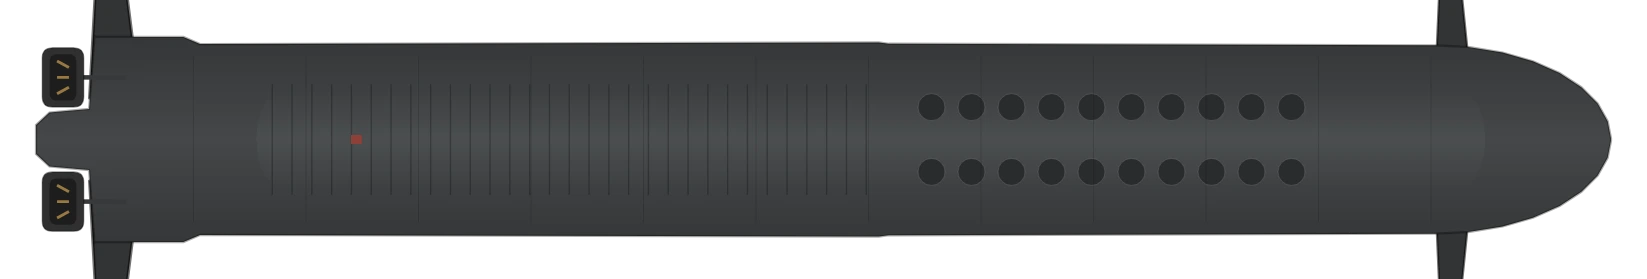
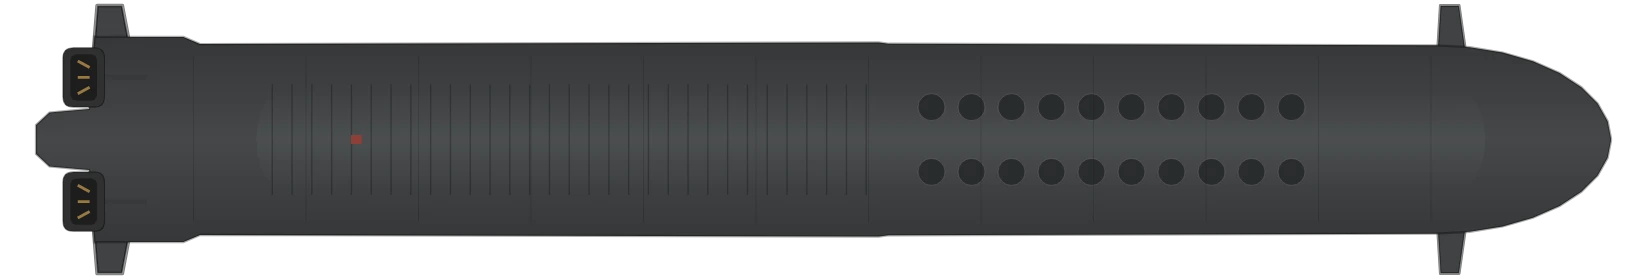
Typhoon: her screw ducts joined to the end of the hull; submarines' diving planes in the hull's tone with a light rim, and kept inside the 4 m margin the bake leaves (a beamy boat's fin tips were cut off at the sprite's edge)
Claude-Session: https://claude.ai/code/session_0112riLGm4nSjrgsGiYL5DUG

diff --git a/index.html b/index.html
@@ -506,7 +506,7 @@ const DESIGN_LIST = [
     p: { sail: [[14, 30, 5]], casing: .5, smooth: true, tubes: [[46, -20, 12, 6.3]], pod: 1 },
     slots: [sl('T', 64, -2, BOW, 'torh'), sl('T', 64, 2, BOW, 'torh'), sl('V', 40, 0, ALL, 'ssm'), sl('V', 10, 0, ALL, 'ssm'), sl('V', -16, 0, ALL, 'ssm')] },
   { id: 'ssn_typhoon', cls: 'ssn', name: 'Heavy Missile Submarine', tech: 'reactors', yard: 'neva', dn: 'Polyarnik', model: 'Typhoon-class submarine', year: 1981, era: 3, L: 175, B: 23, t: 23200, kn: 12, subKn: 27, td: 800, armor: 0, crew: 160, price: 330000,
-    p: { outline: [[87.5, 0.15], [87.13, 2.04], [86.02, 4.0], [84.21, 5.81], [81.79, 7.4], [78.83, 8.7], [75.46, 9.66], [71.8, 10.26], [68.0, 10.46], [7.26, 10.64], [6.15, 10.79], [-69.27, 10.61], [-71.12, 11.39], [-80.56, 11.39], [-81.0, 11.44], [-81.6, 3.4], [-86.0, 3.0], [-87.5, 1.6]], sail: [[-8, 29, 7]], casing: .55, smooth: true, tubes: [[52, 12, 10, 3.6]], screws: [[-84.5, -6.9, 3.3], [-84.5, 6.9, 3.3]] },
+    p: { outline: [[87.5, 0.15], [87.13, 2.04], [86.02, 4.0], [84.21, 5.81], [81.79, 7.4], [78.83, 8.7], [75.46, 9.66], [71.8, 10.26], [68.0, 10.46], [7.26, 10.64], [6.15, 10.79], [-69.27, 10.61], [-71.12, 11.39], [-80.56, 11.39], [-81.0, 11.44], [-81.6, 3.4], [-86.0, 3.0], [-87.5, 1.6]], sail: [[-8, 29, 7]], casing: .55, smooth: true, tubes: [[52, 12, 10, 3.6]], screws: [[-82.2, -6.9, 3.3], [-82.2, 6.9, 3.3]] },
     slots: [sl('T', 72, -2.5, BOW, 'torh'), sl('T', 72, 2.5, BOW, 'torh'), sl('T', 72, 0, BOW, 'torh'), sl('V', 50, 0, ALL, 'ssmh'), sl('V', 38, 0, ALL, 'ssmh'), sl('V', 26, 0, ALL, 'ssmh'), sl('V', 14, 0, ALL, 'ssmh')] },
   // ---------------------------------------------------------------- fleet carriers (Era II)
   { id: 'cv_shokaku', cls: 'cv', yard: 'seto', dn: 'Tsurugi', model: 'Shokaku-class carrier', year: 1941, era: 1, L: 257.5, B: 26, t: 25675, kn: 34, td: 1000, armor: 46, crew: 1660, hangar: 4, price: 150000,
@@ -1115,12 +1115,13 @@ function drawPlan(g, d, P, part = 'all') {
   if (d.kind === 'sub') {
     // diving planes: tapered fins, swept back, rooted under the hull so only the part outboard of it shows (the owner,
     // 13 Nov 2026: they were flat bars laid across the hull)
-    g.fillStyle = shade(P.hull, -0.55);
+    g.fillStyle = shade(P.hull, -0.42);   // the hull's own tone, so the fin reads against the sea
     for (const [sx, k] of p.pod ? [[-h * 0.9, 1.0]] : [[h * 0.8, 0.75], [-h * 0.9, 1.0]]) for (const sg of [-1, 1]) {
-      const c = Math.max(1.0, L * 0.032) * k, span = b * (0.35 + 0.4 * k), sw = c * 0.35;
+      const c = Math.max(1.0, L * 0.032) * k, span = Math.min(b * (0.35 + 0.4 * k), 3.4), sw = c * 0.35;   // (capped inside the 4 m margin the bake leaves round a hull: a beamy boat's fin tips were cut off at its edge)
       g.beginPath(); g.moveTo(sx + c / 2, sg * b * 0.4); g.lineTo(sx + c / 2 - sw, sg * (b + span)); g.lineTo(sx + c / 2 - sw - c * 0.5, sg * (b + span));
-      g.lineTo(sx - c / 2, sg * b * 0.4); g.closePath(); g.fill(); g.strokeStyle = 'rgba(0,0,0,.55)'; g.lineWidth = Math.max(0.18, c * 0.06); g.lineJoin = 'round'; g.stroke();
-      g.strokeStyle = 'rgba(200,206,206,.22)'; g.lineWidth = Math.max(0.1, c * 0.03); g.beginPath(); g.moveTo(sx + c / 2 - sw, sg * (b + span)); g.lineTo(sx + c / 2 - sw - c * 0.5, sg * (b + span)); g.stroke(); g.lineJoin = 'miter'; }   // (the owner, 14 Nov 2026: the tips read as if they had no edge)
+      g.lineTo(sx - c / 2, sg * b * 0.4); g.closePath(); g.fill(); g.lineJoin = 'round';
+      g.strokeStyle = 'rgba(0,0,0,.5)'; g.lineWidth = Math.max(0.22, c * 0.07); g.stroke();
+      g.strokeStyle = 'rgba(214,220,220,.34)'; g.lineWidth = Math.max(0.1, c * 0.03); g.stroke(); g.lineJoin = 'miter'; }   // a light rim all round (the owner, 14 Nov 2026: the tips read as if they had no edge)   // (the owner, 14 Nov 2026: the tips read as if they had no edge)
     hullPath(g, d); crownFill(g, shade(P.hull, -0.45), b); g.lineWidth = 0.25; g.strokeStyle = edge; g.stroke();
     if (!p.smooth || p.casing) { const cw = B * (p.casing || .4); rrect(g, -h * 0.72, -cw / 2, L * 0.78, cw, cw / 2); crownFill(g, shade(P.deck, -0.25), cw / 2);
       g.strokeStyle = 'rgba(0,0,0,.25)'; g.lineWidth = 0.15; g.beginPath(); for (let x = -h * 0.7; x < h * 0.06; x += 2.2) { g.moveTo(x, -cw / 2 + 0.2); g.lineTo(x, cw / 2 - 0.2); } g.stroke(); }

diff --git a/src/game.html b/src/game.html
@@ -503,7 +503,7 @@ const DESIGN_LIST = [
     p: { sail: [[14, 30, 5]], casing: .5, smooth: true, tubes: [[46, -20, 12, 6.3]], pod: 1 },
     slots: [sl('T', 64, -2, BOW, 'torh'), sl('T', 64, 2, BOW, 'torh'), sl('V', 40, 0, ALL, 'ssm'), sl('V', 10, 0, ALL, 'ssm'), sl('V', -16, 0, ALL, 'ssm')] },
   { id: 'ssn_typhoon', cls: 'ssn', name: 'Heavy Missile Submarine', tech: 'reactors', yard: 'neva', dn: 'Polyarnik', model: 'Typhoon-class submarine', year: 1981, era: 3, L: 175, B: 23, t: 23200, kn: 12, subKn: 27, td: 800, armor: 0, crew: 160, price: 330000,
-    p: { outline: [[87.5, 0.15], [87.13, 2.04], [86.02, 4.0], [84.21, 5.81], [81.79, 7.4], [78.83, 8.7], [75.46, 9.66], [71.8, 10.26], [68.0, 10.46], [7.26, 10.64], [6.15, 10.79], [-69.27, 10.61], [-71.12, 11.39], [-80.56, 11.39], [-81.0, 11.44], [-81.6, 3.4], [-86.0, 3.0], [-87.5, 1.6]], sail: [[-8, 29, 7]], casing: .55, smooth: true, tubes: [[52, 12, 10, 3.6]], screws: [[-84.5, -6.9, 3.3], [-84.5, 6.9, 3.3]] },
+    p: { outline: [[87.5, 0.15], [87.13, 2.04], [86.02, 4.0], [84.21, 5.81], [81.79, 7.4], [78.83, 8.7], [75.46, 9.66], [71.8, 10.26], [68.0, 10.46], [7.26, 10.64], [6.15, 10.79], [-69.27, 10.61], [-71.12, 11.39], [-80.56, 11.39], [-81.0, 11.44], [-81.6, 3.4], [-86.0, 3.0], [-87.5, 1.6]], sail: [[-8, 29, 7]], casing: .55, smooth: true, tubes: [[52, 12, 10, 3.6]], screws: [[-82.2, -6.9, 3.3], [-82.2, 6.9, 3.3]] },
     slots: [sl('T', 72, -2.5, BOW, 'torh'), sl('T', 72, 2.5, BOW, 'torh'), sl('T', 72, 0, BOW, 'torh'), sl('V', 50, 0, ALL, 'ssmh'), sl('V', 38, 0, ALL, 'ssmh'), sl('V', 26, 0, ALL, 'ssmh'), sl('V', 14, 0, ALL, 'ssmh')] },
   // ---------------------------------------------------------------- fleet carriers (Era II)
   { id: 'cv_shokaku', cls: 'cv', yard: 'seto', dn: 'Tsurugi', model: 'Shokaku-class carrier', year: 1941, era: 1, L: 257.5, B: 26, t: 25675, kn: 34, td: 1000, armor: 46, crew: 1660, hangar: 4, price: 150000,
@@ -1112,12 +1112,13 @@ function drawPlan(g, d, P, part = 'all') {
   if (d.kind === 'sub') {
     // diving planes: tapered fins, swept back, rooted under the hull so only the part outboard of it shows (the owner,
     // 13 Nov 2026: they were flat bars laid across the hull)
-    g.fillStyle = shade(P.hull, -0.55);
+    g.fillStyle = shade(P.hull, -0.42);   // the hull's own tone, so the fin reads against the sea
     for (const [sx, k] of p.pod ? [[-h * 0.9, 1.0]] : [[h * 0.8, 0.75], [-h * 0.9, 1.0]]) for (const sg of [-1, 1]) {
-      const c = Math.max(1.0, L * 0.032) * k, span = b * (0.35 + 0.4 * k), sw = c * 0.35;
+      const c = Math.max(1.0, L * 0.032) * k, span = Math.min(b * (0.35 + 0.4 * k), 3.4), sw = c * 0.35;   // (capped inside the 4 m margin the bake leaves round a hull: a beamy boat's fin tips were cut off at its edge)
       g.beginPath(); g.moveTo(sx + c / 2, sg * b * 0.4); g.lineTo(sx + c / 2 - sw, sg * (b + span)); g.lineTo(sx + c / 2 - sw - c * 0.5, sg * (b + span));
-      g.lineTo(sx - c / 2, sg * b * 0.4); g.closePath(); g.fill(); g.strokeStyle = 'rgba(0,0,0,.55)'; g.lineWidth = Math.max(0.18, c * 0.06); g.lineJoin = 'round'; g.stroke();
-      g.strokeStyle = 'rgba(200,206,206,.22)'; g.lineWidth = Math.max(0.1, c * 0.03); g.beginPath(); g.moveTo(sx + c / 2 - sw, sg * (b + span)); g.lineTo(sx + c / 2 - sw - c * 0.5, sg * (b + span)); g.stroke(); g.lineJoin = 'miter'; }   // (the owner, 14 Nov 2026: the tips read as if they had no edge)
+      g.lineTo(sx - c / 2, sg * b * 0.4); g.closePath(); g.fill(); g.lineJoin = 'round';
+      g.strokeStyle = 'rgba(0,0,0,.5)'; g.lineWidth = Math.max(0.22, c * 0.07); g.stroke();
+      g.strokeStyle = 'rgba(214,220,220,.34)'; g.lineWidth = Math.max(0.1, c * 0.03); g.stroke(); g.lineJoin = 'miter'; }   // a light rim all round (the owner, 14 Nov 2026: the tips read as if they had no edge)   // (the owner, 14 Nov 2026: the tips read as if they had no edge)
     hullPath(g, d); crownFill(g, shade(P.hull, -0.45), b); g.lineWidth = 0.25; g.strokeStyle = edge; g.stroke();
     if (!p.smooth || p.casing) { const cw = B * (p.casing || .4); rrect(g, -h * 0.72, -cw / 2, L * 0.78, cw, cw / 2); crownFill(g, shade(P.deck, -0.25), cw / 2);
       g.strokeStyle = 'rgba(0,0,0,.25)'; g.lineWidth = 0.15; g.beginPath(); for (let x = -h * 0.7; x < h * 0.06; x += 2.2) { g.moveTo(x, -cw / 2 + 0.2); g.lineTo(x, cw / 2 - 0.2); } g.stroke(); }
